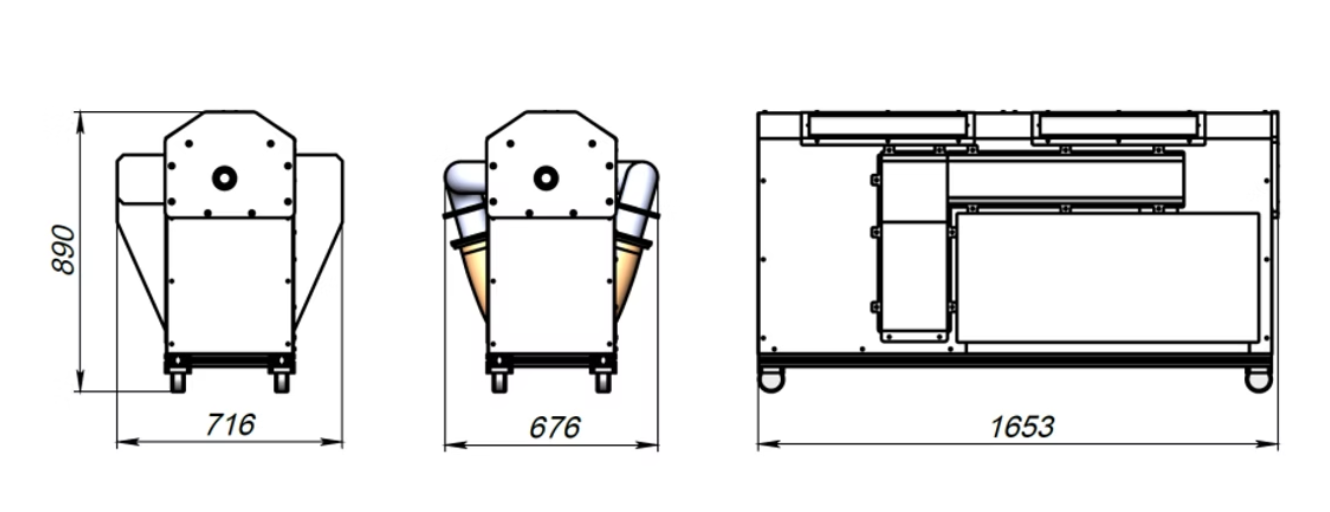
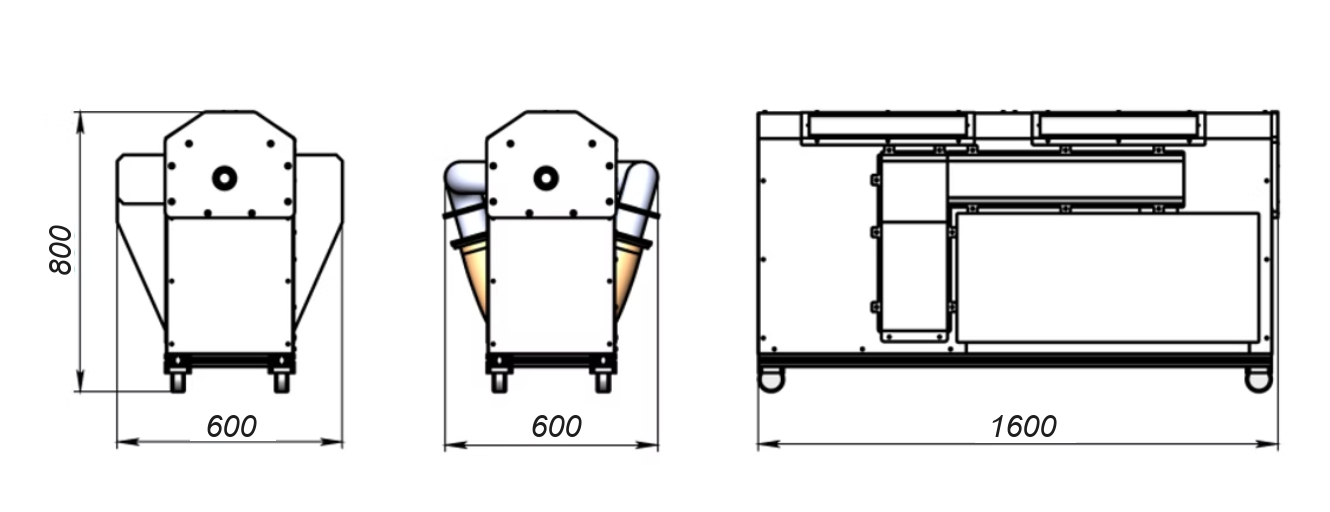
Update ZORKA 2000/4000/6000 tech specs and 2000 dimension drawing
Output power, power consumption, dimensions and water cooling updated
per new spec values (EN + RU). Dimension drawing labels changed to
1600 x 600 x 800 mm for the ZORKA 2000.

diff --git a/ru/lasers.html b/ru/lasers.html
@@ -108,7 +108,7 @@
               </tr>
               <tr style="border-bottom:1px solid var(--color-line);">
                 <td style="padding:10px 0; color:var(--color-ink-muted);">Электрическое питание</td>
-                <td style="padding:10px 0; font-weight:600;">230 В перем. тока / 3 фазы · 10 кВт</td>
+                <td style="padding:10px 0; font-weight:600;">230 В перем. тока / 3 фазы · 12 кВт</td>
               </tr>
               <tr style="border-bottom:1px solid var(--color-line);">
                 <td style="padding:10px 0; color:var(--color-ink-muted);">Расход газовой смеси</td>
@@ -135,8 +135,8 @@
         </div>
         <div>
           <p style="font-family:var(--font-mono); font-size:15px; letter-spacing:.06em; text-transform:uppercase; color:var(--color-ink-soft); margin-bottom:10px;">Компактные габариты лазерного источника (мм)</p>
-          <img src="../assets/images/zorka-dimensions.png" alt="Чертёж ZORKA 2000: 716×676×890 мм, полная длина 1653 мм" style="width:100%; border-radius:2px; border:1px solid var(--color-line); background:#fff; padding:16px; display:block;">
-          <p style="font-size:12px; color:var(--color-ink-soft); line-height:1.5; margin-top:8px;">Площадь основания генератора: 716 × 676 мм, высота 890 мм. Полная длина системы: 1 653 мм. Разработана для прямой интеграции на стандартные промышленные раскройные столы без структурных модификаций.</p>
+          <img src="../assets/images/zorka-dimensions.png" alt="Чертёж ZORKA 2000: 1600×600×800 мм" style="width:100%; border-radius:2px; border:1px solid var(--color-line); background:#fff; padding:16px; display:block;">
+          <p style="font-size:12px; color:var(--color-ink-soft); line-height:1.5; margin-top:8px;">Площадь основания генератора: 1 600 × 600 мм, высота 800 мм. Полная длина системы: 1 600 мм. Разработана для прямой интеграции на стандартные промышленные раскройные столы без структурных модификаций.</p>
           <div style="display:flex; flex-direction:column; gap:24px; border:2px solid #2244CC; border-radius:8px; padding:24px 28px; margin-top:32px;">
           <div>
             <div class="eyebrow" style="margin-bottom:6px;">«ZORKA 2000» против волоконного лазера (2 кВт)</div>
@@ -209,15 +209,15 @@
               </tr>
               <tr style="border-bottom:1px solid var(--color-line);">
                 <td style="padding:10px 0; color:var(--color-ink-muted);">Выходная мощность: TEM00</td>
-                <td style="padding:10px 0; font-weight:600;">3 000 Вт / M² &lt; 1,2 / ⌀16 мм</td>
+                <td style="padding:10px 0; font-weight:600;">2 500 Вт / M² &lt; 1,2 / ⌀16 мм</td>
               </tr>
               <tr style="border-bottom:1px solid var(--color-line);">
                 <td style="padding:10px 0; color:var(--color-ink-muted);">Выходная мощность: TEM01*</td>
-                <td style="padding:10px 0; font-weight:600;">3 500 Вт / M² &lt; 1,8 / ⌀20 мм</td>
+                <td style="padding:10px 0; font-weight:600;">3 000 Вт / M² &lt; 1,8 / ⌀20 мм</td>
               </tr>
               <tr style="border-bottom:1px solid var(--color-line);">
                 <td style="padding:10px 0; color:var(--color-ink-muted);">Выходная мощность: мода «A»</td>
-                <td style="padding:10px 0; font-weight:600;">4 000 Вт / M² &lt; 2,4 / ⌀22 мм</td>
+                <td style="padding:10px 0; font-weight:600;">3 800 Вт / M² &lt; 2,4 / ⌀22 мм</td>
               </tr>
               <tr style="border-bottom:1px solid var(--color-line);">
                 <td style="padding:10px 0; color:var(--color-ink-muted);">Диапазон мощности / стабильность</td>
@@ -229,7 +229,7 @@
               </tr>
               <tr style="border-bottom:1px solid var(--color-line);">
                 <td style="padding:10px 0; color:var(--color-ink-muted);">Электрическое питание</td>
-                <td style="padding:10px 0; font-weight:600;">230 В перем. тока / 3 фазы · 30 кВт</td>
+                <td style="padding:10px 0; font-weight:600;">230 В перем. тока / 3 фазы · 24 кВт</td>
               </tr>
               <tr style="border-bottom:1px solid var(--color-line);">
                 <td style="padding:10px 0; color:var(--color-ink-muted);">Расход газовой смеси</td>
@@ -237,7 +237,7 @@
               </tr>
               <tr style="border-bottom:1px solid var(--color-line);">
                 <td style="padding:10px 0; color:var(--color-ink-muted);">Охлаждение</td>
-                <td style="padding:10px 0; font-weight:600;">Вода, 28 л/ч</td>
+                <td style="padding:10px 0; font-weight:600;">Вода, 30 л/мин</td>
               </tr>
               <tr style="border-bottom:1px solid var(--color-line);">
                 <td style="padding:10px 0; color:var(--color-ink-muted);">Габариты (Д × Ш × В)</td>
@@ -270,11 +270,11 @@
               </tr>
               <tr style="border-bottom:1px solid var(--color-line);">
                 <td style="padding:10px 0; color:var(--color-ink-muted);">Выходная мощность: TEM00</td>
-                <td style="padding:10px 0; font-weight:600;">5 000 Вт / M² &lt; 1,4 / ⌀22 мм</td>
+                <td style="padding:10px 0; font-weight:600;">4 800 Вт / M² &lt; 1,4 / ⌀22 мм</td>
               </tr>
               <tr style="border-bottom:1px solid var(--color-line);">
                 <td style="padding:10px 0; color:var(--color-ink-muted);">Выходная мощность: TEM01*</td>
-                <td style="padding:10px 0; font-weight:600;">5 500 Вт / M² &lt; 2,0 / ⌀24 мм</td>
+                <td style="padding:10px 0; font-weight:600;">5 600 Вт / M² &lt; 2,0 / ⌀24 мм</td>
               </tr>
               <tr style="border-bottom:1px solid var(--color-line);">
                 <td style="padding:10px 0; color:var(--color-ink-muted);">Выходная мощность: мода «A»</td>
@@ -290,7 +290,7 @@
               </tr>
               <tr style="border-bottom:1px solid var(--color-line);">
                 <td style="padding:10px 0; color:var(--color-ink-muted);">Электрическое питание</td>
-                <td style="padding:10px 0; font-weight:600;">230 В перем. тока / 3 фазы · 40 кВт</td>
+                <td style="padding:10px 0; font-weight:600;">230 В перем. тока / 3 фазы · 45 кВт</td>
               </tr>
               <tr style="border-bottom:1px solid var(--color-line);">
                 <td style="padding:10px 0; color:var(--color-ink-muted);">Расход газовой смеси</td>
@@ -298,11 +298,11 @@
               </tr>
               <tr style="border-bottom:1px solid var(--color-line);">
                 <td style="padding:10px 0; color:var(--color-ink-muted);">Охлаждение</td>
-                <td style="padding:10px 0; font-weight:600;">Вода, 40 л/ч</td>
+                <td style="padding:10px 0; font-weight:600;">Вода, 45 л/мин</td>
               </tr>
               <tr style="border-bottom:1px solid var(--color-line);">
                 <td style="padding:10px 0; color:var(--color-ink-muted);">Габариты (Д × Ш × В)</td>
-                <td style="padding:10px 0; font-weight:600;">1 700 × 900 × 1 000 мм</td>
+                <td style="padding:10px 0; font-weight:600;">1 800 × 900 × 1 200 мм</td>
               </tr>
               <tr>
                 <td style="padding:10px 0; color:var(--color-ink-muted);">Вес лазера</td>

diff --git a/lasers.html b/lasers.html
@@ -108,7 +108,7 @@
               </tr>
               <tr style="border-bottom:1px solid var(--color-line);">
                 <td style="padding:10px 0; color:var(--color-ink-muted);">Electrical Power Supply</td>
-                <td style="padding:10px 0; font-weight:600;">230 VAC / 3-Phase · 10 kW</td>
+                <td style="padding:10px 0; font-weight:600;">230 VAC / 3-Phase · 12 kW</td>
               </tr>
               <tr style="border-bottom:1px solid var(--color-line);">
                 <td style="padding:10px 0; color:var(--color-ink-muted);">Gas Mix Consumption</td>
@@ -135,8 +135,8 @@
         </div>
         <div>
           <p style="font-family:var(--font-mono); font-size:15px; letter-spacing:.06em; text-transform:uppercase; color:var(--color-ink-soft); margin-bottom:10px;">Compact Laser Source Dimensions (mm)</p>
-          <img src="assets/images/zorka-dimensions.png" alt="ZORKA 2000 dimensional drawing, 716x676x890mm, full length 1653mm" style="width:100%; border-radius:2px; border:1px solid var(--color-line); background:#fff; padding:16px; display:block;">
-          <p style="font-size:12px; color:var(--color-ink-soft); line-height:1.5; margin-top:8px;">Generator footprint: 716 × 676 mm, height 890 mm. Full system length: 1,653 mm. Designed for direct integration onto standard industrial cutting tables without structural modifications.</p>
+          <img src="assets/images/zorka-dimensions.png" alt="ZORKA 2000 dimensional drawing, 1600x600x800mm" style="width:100%; border-radius:2px; border:1px solid var(--color-line); background:#fff; padding:16px; display:block;">
+          <p style="font-size:12px; color:var(--color-ink-soft); line-height:1.5; margin-top:8px;">Generator footprint: 1,600 × 600 mm, height 800 mm. Full system length: 1,600 mm. Designed for direct integration onto standard industrial cutting tables without structural modifications.</p>
           <div style="display:flex; flex-direction:column; gap:24px; border:2px solid #2244CC; border-radius:8px; padding:24px 28px; margin-top:32px;">
           <div>
             <div class="eyebrow" style="margin-bottom:6px;">ZORKA 2000 vs. Fiber Laser (2 kW)</div>
@@ -209,15 +209,15 @@
               </tr>
               <tr style="border-bottom:1px solid var(--color-line);">
                 <td style="padding:10px 0; color:var(--color-ink-muted);">Output Power: TEM00</td>
-                <td style="padding:10px 0; font-weight:600;">3,000 W / M² &lt; 1.2 / ⌀16mm</td>
+                <td style="padding:10px 0; font-weight:600;">2,500 W / M² &lt; 1.2 / ⌀16mm</td>
               </tr>
               <tr style="border-bottom:1px solid var(--color-line);">
                 <td style="padding:10px 0; color:var(--color-ink-muted);">Output Power: TEM01*</td>
-                <td style="padding:10px 0; font-weight:600;">3,500 W / M² &lt; 1.8 / ⌀20mm</td>
+                <td style="padding:10px 0; font-weight:600;">3,000 W / M² &lt; 1.8 / ⌀20mm</td>
               </tr>
               <tr style="border-bottom:1px solid var(--color-line);">
                 <td style="padding:10px 0; color:var(--color-ink-muted);">Output Power: "A" Mode</td>
-                <td style="padding:10px 0; font-weight:600;">4,000 W / M² &lt; 2.4 / ⌀22mm</td>
+                <td style="padding:10px 0; font-weight:600;">3,800 W / M² &lt; 2.4 / ⌀22mm</td>
               </tr>
               <tr style="border-bottom:1px solid var(--color-line);">
                 <td style="padding:10px 0; color:var(--color-ink-muted);">Power Range / Stability</td>
@@ -229,7 +229,7 @@
               </tr>
               <tr style="border-bottom:1px solid var(--color-line);">
                 <td style="padding:10px 0; color:var(--color-ink-muted);">Electrical Power Supply</td>
-                <td style="padding:10px 0; font-weight:600;">230 VAC / 3-Phase · 30 kW</td>
+                <td style="padding:10px 0; font-weight:600;">230 VAC / 3-Phase · 24 kW</td>
               </tr>
               <tr style="border-bottom:1px solid var(--color-line);">
                 <td style="padding:10px 0; color:var(--color-ink-muted);">Gas Mix Consumption</td>
@@ -237,7 +237,7 @@
               </tr>
               <tr style="border-bottom:1px solid var(--color-line);">
                 <td style="padding:10px 0; color:var(--color-ink-muted);">Cooling</td>
-                <td style="padding:10px 0; font-weight:600;">Water, 28 L/hr</td>
+                <td style="padding:10px 0; font-weight:600;">Water, 30 L/min</td>
               </tr>
               <tr style="border-bottom:1px solid var(--color-line);">
                 <td style="padding:10px 0; color:var(--color-ink-muted);">Dimensions (L × W × H)</td>
@@ -270,11 +270,11 @@
               </tr>
               <tr style="border-bottom:1px solid var(--color-line);">
                 <td style="padding:10px 0; color:var(--color-ink-muted);">Output Power: TEM00</td>
-                <td style="padding:10px 0; font-weight:600;">5,000 W / M² &lt; 1.4 / ⌀22mm</td>
+                <td style="padding:10px 0; font-weight:600;">4,800 W / M² &lt; 1.4 / ⌀22mm</td>
               </tr>
               <tr style="border-bottom:1px solid var(--color-line);">
                 <td style="padding:10px 0; color:var(--color-ink-muted);">Output Power: TEM01*</td>
-                <td style="padding:10px 0; font-weight:600;">5,500 W / M² &lt; 2.0 / ⌀24mm</td>
+                <td style="padding:10px 0; font-weight:600;">5,600 W / M² &lt; 2.0 / ⌀24mm</td>
               </tr>
               <tr style="border-bottom:1px solid var(--color-line);">
                 <td style="padding:10px 0; color:var(--color-ink-muted);">Output Power: "A" Mode</td>
@@ -290,7 +290,7 @@
               </tr>
               <tr style="border-bottom:1px solid var(--color-line);">
                 <td style="padding:10px 0; color:var(--color-ink-muted);">Electrical Power Supply</td>
-                <td style="padding:10px 0; font-weight:600;">230 VAC / 3-Phase · 40 kW</td>
+                <td style="padding:10px 0; font-weight:600;">230 VAC / 3-Phase · 45 kW</td>
               </tr>
               <tr style="border-bottom:1px solid var(--color-line);">
                 <td style="padding:10px 0; color:var(--color-ink-muted);">Gas Mix Consumption</td>
@@ -298,11 +298,11 @@
               </tr>
               <tr style="border-bottom:1px solid var(--color-line);">
                 <td style="padding:10px 0; color:var(--color-ink-muted);">Cooling</td>
-                <td style="padding:10px 0; font-weight:600;">Water, 40 L/hr</td>
+                <td style="padding:10px 0; font-weight:600;">Water, 45 L/min</td>
               </tr>
               <tr style="border-bottom:1px solid var(--color-line);">
                 <td style="padding:10px 0; color:var(--color-ink-muted);">Dimensions (L × W × H)</td>
-                <td style="padding:10px 0; font-weight:600;">1,700 × 900 × 1,000 mm</td>
+                <td style="padding:10px 0; font-weight:600;">1,800 × 900 × 1,200 mm</td>
               </tr>
               <tr>
                 <td style="padding:10px 0; color:var(--color-ink-muted);">Laser Weight</td>
